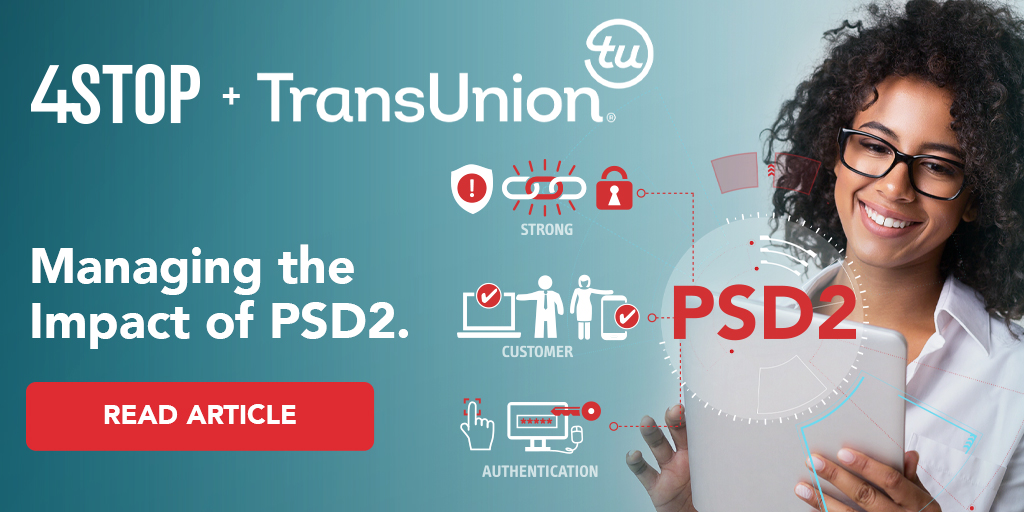
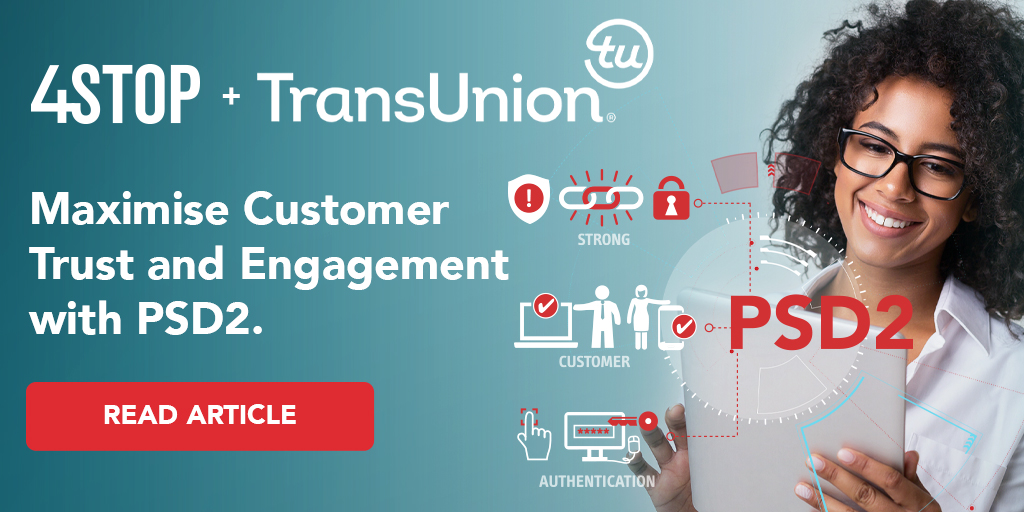
PSD2 Article campaign launch

Changed region(s): [[0.0312, 0.4688, 0.9062, 0.7188], [0.0312, 0.3125, 0.6875, 0.5], [0.4375, 0.7812, 0.6562, 0.9688]]

diff --git a/index.html b/index.html
@@ -193,20 +193,6 @@
 					<div class="swiper-wrapper">
 
 
-						<!--<div class="swiper-slide dark" style="background-image: url('media/images/banner/4S-psd2article-web-banner.jpg');">
-							<div class="container clearfix">
-								<div class="slider-caption slider-caption-left" style="padding-right:120px;">
-									
-									<p style="color:#FFF; line-height:1.3; font-weight: 300" data-caption-animate="fadeInUp" data-caption-delay="200"><img src="media/images/medialogos/4stop-white-sm2.png" alt="iovation" width="140px;">&nbsp;&nbsp;&nbsp;<img src="media/images/medialogos/transunion-white.png" alt="iovation" width="250px;"></p>
-
-
-									<h4 class="topmargin-sm" style="color:#FFF; line-height:1.1; font-size:46px;"  data-caption-animate="fadeInUp">Managing the Impact of PSD2.</h4>
-
-									<p style="color:#FFF; line-height:1.3;"  data-caption-animate="fadeInUp" data-caption-delay="200">We discuss online consumer behaviour and the establishment of PSD2 through to harnessing the new PSD2 regulations to adapt and improve authentication strategies in a frictionless manner to maximise consumer engagement. <Br><br>
-										<a href="media/article-manage-psd2-impact.html" class="button button-dark button-rounded uppercase nomargin" style="padding-right:40px; padding-left:40px;">Read Article</a></p>
-								</div>
-							</div>
-						</div>-->
 
 						
 
@@ -214,7 +200,7 @@
 							<div class="container clearfix">
 								<div class="slider-caption slider-caption-left" style="padding-right:90px;">
 
-									<p style="color:#FFF; line-height:1.3; font-weight: 300" data-caption-animate="fadeInUp" data-caption-delay="200"><img src="media/images/medialogos/4stop-white-sm2.png" alt="iovation" width="140px;">&nbsp;&nbsp;&nbsp;<img src="media/images/medialogos/transunion-white.png" alt="iovation" width="250px;"></p>
+									
 									
 									
 
@@ -229,6 +215,8 @@
 								</div>
 							</div>
 						</div>
+
+
 
 
 						<div class="swiper-slide dark" style="background-image: url('media/images/banner/4stop-pr-complyadvantage-banner.jpg');">
@@ -273,19 +261,21 @@
 
 
 
-						<div class="swiper-slide dark" style="background-image: url('media/images/banner/4S-iovation-web-banner.jpg');">
+						
+						<div class="swiper-slide dark" style="background-image: url('media/images/banner/4S-psd2article-web-banner.jpg');">
 							<div class="container clearfix">
-								<div class="slider-caption slider-caption-left" style="padding-right:70px;">
-									<p style="color:#FFF; line-height:1.3; font-weight: 300" data-caption-animate="fadeInUp" data-caption-delay="200"><img src="media/images/medialogos/4stop-white-sm.png" alt="4Stop" width="130px;">&nbsp;&nbsp;&nbsp;+&nbsp;&nbsp;&nbsp;<img src="media/images/medialogos/complyadvantage-white.png" alt="ComplyAdvantage" width="180px;"></p>
+								<div class="slider-caption slider-caption-left" style="padding-right:120px;">
+									
+									<p style="color:#FFF; line-height:1.3; font-weight: 300" data-caption-animate="fadeInUp" data-caption-delay="200"><img src="media/images/medialogos/4stop-white-sm2.png" alt="iovation" width="140px;">&nbsp;&nbsp;&nbsp;<img src="media/images/medialogos/transunion-white.png" alt="iovation" width="250px;"></p>
 
-									<h4 class="topmargin-sm" style="color:#FFF; line-height:1.1; font-size:46px;"  data-caption-animate="fadeInUp">Optimising Customer Experience Under PSD2 Webinar.</h4>
 
-									<p style="color:#FFF; line-height:1.3;"  data-caption-animate="fadeInUp" data-caption-delay="200">In conjunction with iovation we discuss harnessing the new PSD2 regulation to adapt and improve the customer experience, build trust, loyalty and retention with your brand while complying with ease. <Br><br>
-										<a href="webinar/psd2-optimise-engagement.html#section-webinarintro" class="button button-dark button-rounded uppercase nomargin" style="padding-right:40px; padding-left:40px;">Watch Webinar</a></p>
+									<h4 class="topmargin-sm" style="color:#FFF; line-height:1.1; font-size:46px;"  data-caption-animate="fadeInUp">Managing the Impact of PSD2.</h4>
+
+									<p style="color:#FFF; line-height:1.3;"  data-caption-animate="fadeInUp" data-caption-delay="200">We discuss online consumer behaviour and the establishment of PSD2 through to harnessing the new PSD2 regulations to adapt and improve authentication strategies in a frictionless manner to maximise consumer engagement. <Br><br>
+										<a href="media/article-manage-psd2-impact.html" class="button button-dark button-rounded uppercase nomargin" style="padding-right:40px; padding-left:40px;">Read Article</a></p>
 								</div>
 							</div>
 						</div>
-
 
 						
 
@@ -1131,7 +1121,7 @@
 									<a href="media/cybersecurity-covid19impact.html"><img class="image_fade" src="media/images/homepage/news-hp-cybersecuritycovidarticle.jpg"></a>
 								</div>
 								<div class="entry-title">
-									<h4><a href="media/cybersecurity-covid19impact.html">Combatting the rapid rise in global fraud rates during COVID-19. We take a look at the impact and what businesses can do to bolster their security.  </a></h4><br>
+									<h4><a href="media/cybersecurity-covid19impact.html">Combatting the rapid rise in global fraud rates during COVID-19. We review the impact and what businesses can do to bolster their security.  </a></h4><br>
 								</div>
 								<ul class="entry-meta clearfix">
 									<li><i class="icon-newspaper"></i> April 7th, 2020<Br><br>
@@ -1142,7 +1132,7 @@
 
 
 
-						<!--<div class="oc-item">
+						<div class="oc-item">
 							<div class="ipost clearfix">
 								<div class="entry-image">
 									<a href="media/article-manage-psd2-impact.html"><img class="image_fade" src="media/images/homepage/news-hp-psd2article.jpg"></a>
@@ -1151,11 +1141,11 @@
 									<h4><a href="media/article-manage-psd2-impact.html">Managing the impact of PSD2 and improve authentication strategies in a frictionless manner to maximise your consumer engagement.  </a></h4><br>
 								</div>
 								<ul class="entry-meta clearfix">
-									<li><i class="icon-newspaper"></i> March 26th, 2020<Br><br>
+									<li><i class="icon-newspaper"></i> April 7th, 2020<Br><br>
 									<a href="media/article-manage-psd2-impact.html" style="color:#c02026;"><i class="icon-newspaper"></i>Read Article</a></li>
 								</ul>
 							</div>
-						</div>-->
+						</div>
 
 
 

diff --git a/media/article-manage-psd2-impact.html b/media/article-manage-psd2-impact.html
@@ -31,7 +31,7 @@
 	<meta name="author" content="SemiColonWeb" />
 	<meta http-equiv="content-type" content="text/html; charset=utf-8" />
 	<meta name="author" content="SemiColonWeb" />
-	<meta name="description" content="Latest News - Managing the Impact of PSD2. 4Stop (“FourStop GmbH”) in partnership with iovation discuss online consumer behaviour and the establishment of PSD2 through to harnessing the new PSD2 regulations to adapt and improve authentication strategies in a frictionless manner to maximise consumer engagement.">
+	<meta name="description" content="Latest News - Managing the Impact of PSD2. 4Stop (“FourStop GmbH”) in partnership with TransUnion (formerly iovation) discuss online consumer behaviour and the establishment of PSD2 through to harnessing the new PSD2 regulations to adapt and improve authentication strategies in a frictionless manner to maximise consumer engagement.">
 	<meta name="keywords" content="cybersecurity, kyc, know your customer, compliance, anti-fraud, verification, validation, authentication, regtech, fintech, payments, risk mitigation, risk management, security, regulatory, global, digital identity, device id, fraud prevention, fraud detection, authentication solutions, fraud detection machine learning, fraud prevention software vendor, fraud detection software company, document identity verification, payment services, payment gateway, AML, kyb, financial institutions, machine learning, SAAS, VAAS, digital identity, ecommerce, payments, PSD2, AML4, business technology, business security, best KYC, KYC solution">
 	<meta name="robots" content="index, follow">
 
@@ -228,7 +228,7 @@
 						
 
 						<div class="col-md-12">
-							<h2 class="heading-block " style="font-weight:300; line-height:1.3"><b>Managing the Impact of PSD2 </b><br><span style="font-size:20px; font-weight:300;">Published on March 26th, 2020. </span></h2>
+							<h2 class="heading-block " style="font-weight:300; line-height:1.3"><b>Managing the Impact of PSD2 </b><br><span style="font-size:20px; font-weight:300;">Published on April 7th, 2020. </span></h2>
 							
 						</div>
 
@@ -276,23 +276,27 @@
 
 
 
-						<div class="col-md-7 topmargin-sm">
+						<div class="col-md-6 topmargin-sm">
 							<h3 style="font-size: 18px; font-weight: 300; line-height: 1.4; color:#484f5e;"><b>Optimal authentication strategies in a PSD2 world</b>
 
 							<br><br>
 
 							Online buying is only going to increase, with online sales projected to make up 17% of all global consumer sales by 2022.<em>(1)</em> By optimising multi factor authentication throughout the customer journey, businesses can be compliant while preventing fraud and keeping bad users out. Worried that increased authentication will lead to consumer friction? Don’t be! 27% of consumers say they’ve actually abandoned a transaction due to a lack of visible security.<em>(3)</em> Consumers don’t just want quick turnarounds on their purchases, they also want to see that businesses are taking the necessary steps to keep their information secure.  
-
-							<br><br>
-							TransUnion and 4Stop can provide the strong multifactor authentication and fraud prevention tools you need in order to be PSD2-compliant. To learn more about PSD2 from 4Stop and TransUnion compliance experts, <a href="https://4stop.com/webinar/psd2-optimise-engagement.html">watch our webinar here</a>.
-
 						</div>
 
 
 
-						<div class="col-md-5 topmargin-sm">
+
+
+						<div class="col-md-6 topmargin-md">
 							<img src="images/psd2article-objective.jpg">
 
+						</div>
+
+
+						<div class="col-md-12 topmargin-sm">
+							<h3 style="font-size: 18px; font-weight: 300; line-height: 1.4; color:#484f5e;">TransUnion and 4Stop can provide the strong multifactor authentication and fraud prevention tools you need in order to be PSD2-compliant. To learn more about PSD2 from 4Stop and TransUnion compliance experts, <a href="https://4stop.com/webinar/psd2-optimise-engagement.html">watch our webinar here</a>.
+							</h3>
 						</div>
 
 
@@ -301,9 +305,9 @@
 								1 - <a href="https://www.forbes.com/sites/jordanmckee/2018/09/11/global-digital-commerce-sales-to-near-6-trillion-by-2022/#57830ba14c5a" target="_blank"> https://www.forbes.com/sites/jordanmckee/2018/09/11/global-digital-commerce-sales-to-near-6-trillion-by-2022/#57830ba14c5a</a>
 								<br>
 
-								2- <a href="https://www.europeanpaymentscouncil.eu/document-library/other/map-sepa-scheme-countries-and-territories" target="_blank">https://www.europeanpaymentscouncil.eu/document-library/other/map-sepa-scheme-countries-and-territories </a>
+								2 - <a href="https://www.europeanpaymentscouncil.eu/document-library/other/map-sepa-scheme-countries-and-territories" target="_blank">https://www.europeanpaymentscouncil.eu/document-library/other/map-sepa-scheme-countries-and-territories </a>
 								<br>
-								3- <a href="https://www.experian.com/assets/decision-analytics/reports/global-fraud-report-2018.pdf" target="_blank">https://www.experian.com/assets/decision-analytics/reports/global-fraud-report-2018.pdf</a>
+								3 - <a href="https://www.experian.com/assets/decision-analytics/reports/global-fraud-report-2018.pdf" target="_blank">https://www.experian.com/assets/decision-analytics/reports/global-fraud-report-2018.pdf</a>
 
 							</h3>
 						</div>

diff --git a/media/index.html b/media/index.html
@@ -186,7 +186,7 @@
 							<div class="container clearfix">
 								<div class="slider-caption slider-caption-left" style="padding-right:90px;">
 
-									<p style="color:#FFF; line-height:1.3; font-weight: 300" data-caption-animate="fadeInUp" data-caption-delay="200"><img src="images/medialogos/4stop-white-sm2.png" alt="iovation" width="140px;">&nbsp;&nbsp;&nbsp;<img src="images/medialogos/transunion-white.png" alt="iovation" width="250px;"></p>
+									
 									
 									
 
@@ -240,10 +240,29 @@
 
 						<div class="entry clearfix">
 							<div class="entry-image">
-								<a href="paypers-kycguide2020.html"><img class="image_fade" src="images/complyadvantage-pr-thumblg.jpg" alt="ComplyAdvantage Partnership"></a>
+								<a href="article-manage-psd2-impact.html"><img class="image_fade" src="images/4S-psd2article-thumblg.jpg" alt="Manage PSD2"></a>
 							</div>
 							<div class="entry-title">
-								<h2><a href="paypers-kycguide2020.html">Partnered to enriched our KYC hub with AML technology.</a></h2>
+								<h2><a href="article-manage-psd2-impact.html">We Discuss Managing the Impact of PSD2.</a></h2>
+							</div>
+							<ul class="entry-meta clearfix">
+								<li><i class="icon-calendar3"></i> April 7th, 2020</li>
+								<li><i class="icon-newspaper"></i></li>
+							</ul>
+							<div class="entry-content">
+								<p>As more people shop online, fraudsters have been taking note and mimicking common consumer behavior. For instance, in 2019, TransUnion consortium data found a 118% increase in risky transactions from mobile devices.  There have also been ongoing shifts in fraud as card-not-present (CNP) fraud continues to increase...</p>
+								<a href="article-manage-psd2-impact.html" class="more-link">Read Article</a>
+							</div>
+						</div>
+
+
+
+						<div class="entry clearfix">
+							<div class="entry-image">
+								<a href="complyadvantage-presser.html"><img class="image_fade" src="images/complyadvantage-pr-thumblg.jpg" alt="ComplyAdvantage Partnership"></a>
+							</div>
+							<div class="entry-title">
+								<h2><a href="complyadvantage-presser.html">Partnered to enriched our KYC hub with AML technology.</a></h2>
 							</div>
 							<ul class="entry-meta clearfix">
 								<li><i class="icon-calendar3"></i> March 17th, 2020</li>

diff --git a/media/cybersecurity-covid19impact.html b/media/cybersecurity-covid19impact.html
@@ -192,7 +192,7 @@
 							<div class="container clearfix">
 								<div class="slider-caption slider-caption-left" style="padding-right:90px;">
 
-									<p style="color:#FFF; line-height:1.3; font-weight: 300" data-caption-animate="fadeInUp" data-caption-delay="200"><img src="images/medialogos/4stop-white-sm2.png" alt="iovation" width="140px;">&nbsp;&nbsp;&nbsp;<img src="images/medialogos/transunion-white.png" alt="iovation" width="250px;"></p>
+									
 									
 									
 
